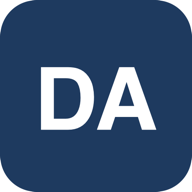
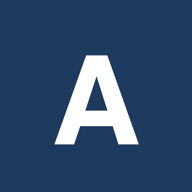
Soften the supervision line, drop the invitation, deep-link Software
- "with industry partners" -> "sometimes with industry partners"
- Remove the "come talk to me" closing sentence
- The packages link now targets research.html#software
- Plainer favicon: a single white "A" on a flat navy square
Cache-bust v=41.

diff --git a/index.html b/index.html
@@ -14,7 +14,7 @@
   <link rel="stylesheet" href="https://cdnjs.cloudflare.com/ajax/libs/twitter-bootstrap/4.1.3/css/bootstrap.min.css" integrity="sha256-eSi1q2PG6J7g7ib17yAaWMcrr5GrtohYChqibrV7PBE=" crossorigin="anonymous">
   <link rel="stylesheet" href="https://use.fontawesome.com/releases/v5.4.1/css/all.css" integrity="sha384-5sAR7xN1Nv6T6+dT2mhtzEpVJvfS3NScPQTrOxhwjIuvcA67KV2R5Jz6kr4abQsz" crossorigin="anonymous">
 
-  <link rel="stylesheet" href="./styles.css?v=40">
+  <link rel="stylesheet" href="./styles.css?v=41">
 
   <link rel="icon" type="image/png" href="./img/icon.png">
   <link rel="apple-touch-icon" type="image/png" href="./img/icon-192.png">
@@ -132,11 +132,11 @@
         </div>
       </div>
 
-          <p>Research is a team sport. The best ideas I've had showed up mid-argument with a co-author, a postdoc, or a student in front of a whiteboard — usually while laughing. I've supervised 4 PhDs, a dozen MSc theses, and more than 60 applied projects with industry partners, and I direct the <a href="https://www.hec.ca/en/programs/masters/master-financial-engineering/index.html" target="_blank" rel="noopener">MSc in Financial Engineering</a> at <a href="https://www.hec.ca/en/" target="_blank" rel="noopener">HEC Montréal</a>. If you're curious, rigorous, and up for having fun while doing serious work, <a href="teaching.html">come talk to me</a>.</p>
+          <p>Research is a team sport. The best ideas I've had showed up mid-argument with a co-author, a postdoc, or a student in front of a whiteboard — usually while laughing. I've supervised 4 PhDs, a dozen MSc theses, and more than 60 applied projects, sometimes with industry partners, and I direct the <a href="https://www.hec.ca/en/programs/masters/master-financial-engineering/index.html" target="_blank" rel="noopener">MSc in Financial Engineering</a> at <a href="https://www.hec.ca/en/" target="_blank" rel="noopener">HEC Montréal</a>.</p>
 
           <p>I'm a quant at heart. I build methods that turn messy data — prices, news, filings, anything written down — into signals for risk, portfolios, and the economy. Financial econometrics is my home base; artificial intelligence, machine learning, and natural language processing are how I get there.</p>
 
-          <p>I've been shipping open-source code for twenty years. With my team I maintain <a href="research.html">a dozen R packages on CRAN</a> — GARCH and regime-switching models, risk-based portfolios, textual sentiment, global optimization — because a method nobody can run is a method that doesn't exist. I'm also active in <a href="https://sentometrics-research.com/" target="_blank" rel="noopener">Sentometrics Research</a>, bridging text mining, sentiment analysis, and econometrics, and <a href="https://fame-ai.org/" target="_blank" rel="noopener">FAME</a>, a joint Paris Dauphine–PSL and HEC Montréal initiative on generative AI and large language models in financial markets.</p>
+          <p>I've been shipping open-source code for twenty years. With my team I maintain <a href="research.html#software">a dozen R packages on CRAN</a> — GARCH and regime-switching models, risk-based portfolios, textual sentiment, global optimization — because a method nobody can run is a method that doesn't exist. I'm also active in <a href="https://sentometrics-research.com/" target="_blank" rel="noopener">Sentometrics Research</a>, bridging text mining, sentiment analysis, and econometrics, and <a href="https://fame-ai.org/" target="_blank" rel="noopener">FAME</a>, a joint Paris Dauphine–PSL and HEC Montréal initiative on generative AI and large language models in financial markets.</p>
 
           <p>If you like clicking links, here is the institutional trail: I am an elected member of the <a href="https://www.isi-web.org/" target="_blank">ISI</a>, a member or researcher at <a href="https://cirano.qc.ca/en" target="_blank">CIRANO</a>, <a href="https://cireqmontreal.com/en/" target="_blank">CIREQ</a>, <a href="https://www.crmath.ca/en/" target="_blank">CRM</a>, <a href="https://fin-ml.ca/" target="_blank">Fin-ML</a>, <a href="https://www.gerad.ca/en/" target="_blank">GERAD</a>, and <a href="http://quantact.uqam.ca/index_en.php" target="_blank">Quantact</a>, an associate researcher at <a href="https://www.observatoire-ia.ulaval.ca/en/" target="_blank">OBVIA</a> and the <a href="https://institutpenner.ca/" target="_blank">Penner Institute</a>, and an instructor at <a href="https://www.datacamp.com/courses/financial-analytics-in-google-sheets" target="_blank">DataCamp</a>.</p>
 

diff --git a/impact.html b/impact.html
@@ -14,7 +14,7 @@
   <link rel="stylesheet" href="https://cdnjs.cloudflare.com/ajax/libs/twitter-bootstrap/4.1.3/css/bootstrap.min.css" integrity="sha256-eSi1q2PG6J7g7ib17yAaWMcrr5GrtohYChqibrV7PBE=" crossorigin="anonymous">
   <link rel="stylesheet" href="https://use.fontawesome.com/releases/v5.4.1/css/all.css" integrity="sha384-5sAR7xN1Nv6T6+dT2mhtzEpVJvfS3NScPQTrOxhwjIuvcA67KV2R5Jz6kr4abQsz" crossorigin="anonymous">
 
-  <link rel="stylesheet" href="./styles.css?v=40">
+  <link rel="stylesheet" href="./styles.css?v=41">
 
   <link rel="icon" type="image/png" href="./img/icon.png">
   <link rel="apple-touch-icon" type="image/png" href="./img/icon-192.png">

diff --git a/research.html b/research.html
@@ -14,7 +14,7 @@
   <link rel="stylesheet" href="https://cdnjs.cloudflare.com/ajax/libs/twitter-bootstrap/4.1.3/css/bootstrap.min.css" integrity="sha256-eSi1q2PG6J7g7ib17yAaWMcrr5GrtohYChqibrV7PBE=" crossorigin="anonymous">
   <link rel="stylesheet" href="https://use.fontawesome.com/releases/v5.4.1/css/all.css" integrity="sha384-5sAR7xN1Nv6T6+dT2mhtzEpVJvfS3NScPQTrOxhwjIuvcA67KV2R5Jz6kr4abQsz" crossorigin="anonymous">
 
-  <link rel="stylesheet" href="./styles.css?v=40">
+  <link rel="stylesheet" href="./styles.css?v=41">
 
   <link rel="icon" type="image/png" href="./img/icon.png">
   <link rel="apple-touch-icon" type="image/png" href="./img/icon-192.png">

diff --git a/teaching.html b/teaching.html
@@ -14,7 +14,7 @@
   <link rel="stylesheet" href="https://cdnjs.cloudflare.com/ajax/libs/twitter-bootstrap/4.1.3/css/bootstrap.min.css" integrity="sha256-eSi1q2PG6J7g7ib17yAaWMcrr5GrtohYChqibrV7PBE=" crossorigin="anonymous">
   <link rel="stylesheet" href="https://use.fontawesome.com/releases/v5.4.1/css/all.css" integrity="sha384-5sAR7xN1Nv6T6+dT2mhtzEpVJvfS3NScPQTrOxhwjIuvcA67KV2R5Jz6kr4abQsz" crossorigin="anonymous">
 
-  <link rel="stylesheet" href="./styles.css?v=40">
+  <link rel="stylesheet" href="./styles.css?v=41">
 
   <link rel="icon" type="image/png" href="./img/icon.png">
   <link rel="apple-touch-icon" type="image/png" href="./img/icon-192.png">
